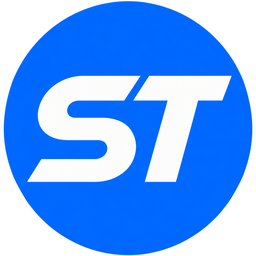
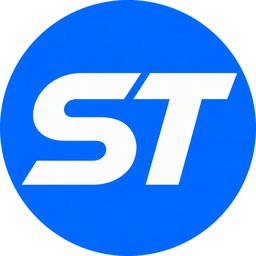
Hết nhoè viền nút code: cắt LÙI VÀO trong đĩa xanh
Chủ site báo viền nhoè. Đo ảnh đã xuất: 4 pixel ngoài cùng là TRẮNG THUẦN
(255,255,255) — nền trắng ngà của ảnh gốc lọt vào, xanh mãi pixel thứ 5 mới bắt
đầu. Trên nền tối nhìn ra đúng một quầng sáng quanh nút.

Nguyên nhân: cắt ở bán kính × 1,01 tức RA NGOÀI đĩa, nên vành ngoài toàn pixel
pha xanh-với-nền. Đĩa lại không tròn tuyệt đối (bán kính thật dao động 542..556),
càng làm chỗ mỏng chỗ dày.

Sửa: quét từ ngoài vào theo 360 hướng để lấy bán kính NHỎ NHẤT (542), rồi cắt ở
532 — lùi hẳn 10px vào trong. Mặt nạ tròn nhờ vậy luôn nằm trong vùng xanh thuần.
Đo lại 5 vành ngoài cùng: đều (1,105,253), không còn điểm trắng nào. Lệch vẫn 0,0px.

Đây đúng bài học đã rút ra ở logo đỏ hôm 05/09 — lần này áp cho ảnh không có kênh
alpha nên dò theo màu thay vì theo alpha.

Nâng $ver: tên file không đổi nên option còn ghim ?v= mốc cũ, không nâng thì
trang vẫn phục vụ ảnh nhoè.

diff --git a/functions.php b/functions.php
@@ -159,7 +159,7 @@ add_action( 'init', function() {
    Logo thương hiệu (sitetop-logo.png, nền vàng) vẫn giữ nguyên cho các nơi khác.
    ============================================================ */
 add_action( 'init', function() {
-    $ver = 'icon-code-20260909-st';
+    $ver = 'icon-code-20260909-st-hetnhoe';
     if ( get_option( 'sitetop_logo_version' ) !== $ver ) {
         update_option( 'sitetop_widget_icon', sitetop_logo_url( 'widget-code-icon.png' ) );
         update_option( 'sitetop_logo_version', $ver );
